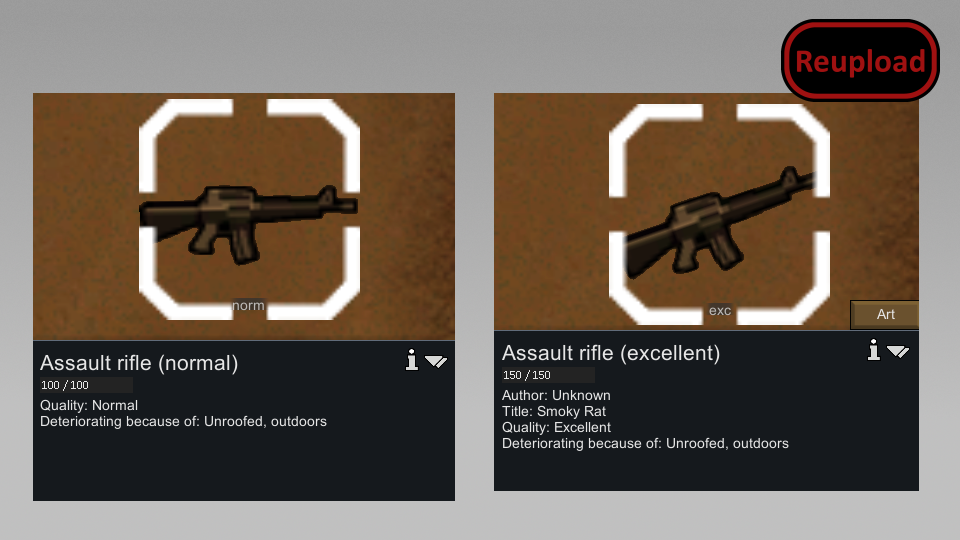
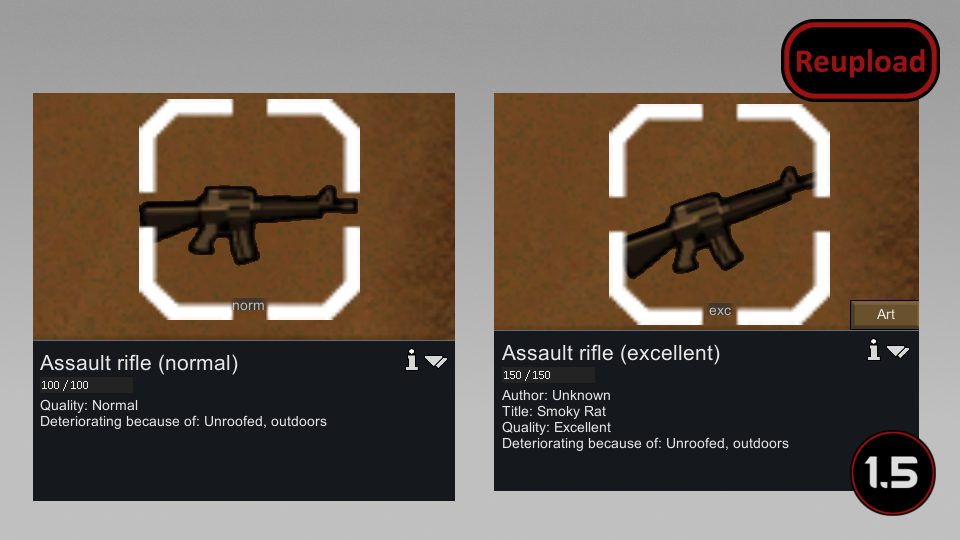
Mod updated for 1.5 and passed autotests Used DeepL to update translations for ChineseSimplified, French, German

Changed region(s): [[0.875, 0.8, 1.0, 0.9778]]

diff --git a/Source/AmnabiTemplate/Harmony_QualityAndDurability.cs b/Source/AmnabiTemplate/Harmony_QualityAndDurability.cs
@@ -10,18 +10,18 @@ public static class Harmony_QualityAndDurability
     static Harmony_QualityAndDurability()
     {
         var harmony = new Harmony("Amnabi.QualityAndDurability");
-        harmony.PatchAll();
+        //harmony.PatchAll();
         harmony.Patch(
-            AccessTools.Method(typeof(CompQuality), "SetQuality"),
+            AccessTools.Method(typeof(CompQuality), nameof(CompQuality.SetQuality)),
             null,
             new HarmonyMethod(typeof(Harmony_QualityAndDurability), nameof(SetQualityPatch)));
         harmony.Patch(
-            AccessTools.DeclaredPropertyGetter(typeof(Thing), "MaxHitPoints"),
+            AccessTools.DeclaredPropertyGetter(typeof(Thing), nameof(Thing.MaxHitPoints)),
             null,
             new HarmonyMethod(typeof(Harmony_QualityAndDurability), nameof(MaxHitPointsPatch)));
     }
 
-    public static void SetQualityPatch(QualityCategory q, ArtGenerationContext source, CompQuality __instance)
+    public static void SetQualityPatch(CompQuality __instance)
     {
         __instance.parent.HitPoints = __instance.parent.MaxHitPoints;
     }

diff --git a/Source/AmnabiTemplate/QualityAndDurabilityMod.cs b/Source/AmnabiTemplate/QualityAndDurabilityMod.cs
@@ -27,8 +27,7 @@ internal class QualityAndDurabilityMod : Mod
     {
         instance = this;
         currentVersion =
-            VersionFromManifest.GetVersionFromModMetaData(
-                ModLister.GetActiveModWithIdentifier("Mlie.QualityAndDurability"));
+            VersionFromManifest.GetVersionFromModMetaData(content.ModMetaData);
     }
 
     /// <summary>

diff --git a/README.md b/README.md
@@ -20,11 +20,13 @@ Quality affects max hit points for weapons and armour.
 
 -  See if the the error persists if you just have this mod and its requirements active.
 -  If not, try adding your other mods until it happens again.
--  Post your error-log using https://steamcommunity.com/workshop/filedetails/?id=818773962]HugsLib and command Ctrl+F12
+-  Post your error-log using https://steamcommunity.com/workshop/filedetails/?id=818773962]HugsLib or the standalone https://steamcommunity.com/sharedfiles/filedetails/?id=2873415404]Uploader and command Ctrl+F12
 -  For best support, please use the Discord-channel for error-reporting.
 -  Do not report errors by making a discussion-thread, I get no notification of that.
 -  If you have the solution for a problem, please post it to the GitHub repository.
+-  Use https://github.com/RimSort/RimSort/releases/latest]RimSort to sort your mods
 
 
 
+https://steamcommunity.com/sharedfiles/filedetails/changelog/2572086023]![Image](https://img.shields.io/github/v/release/emipa606/QualityAndDurability?label=latest%20version&style=plastic&color=9f1111&labelColor=black)
 
